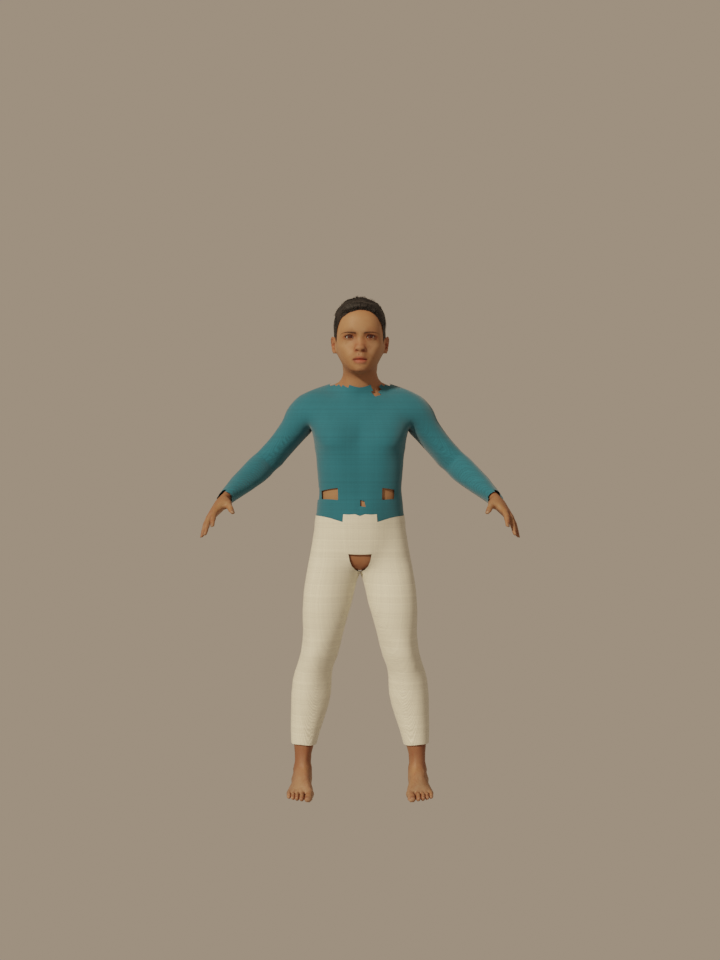
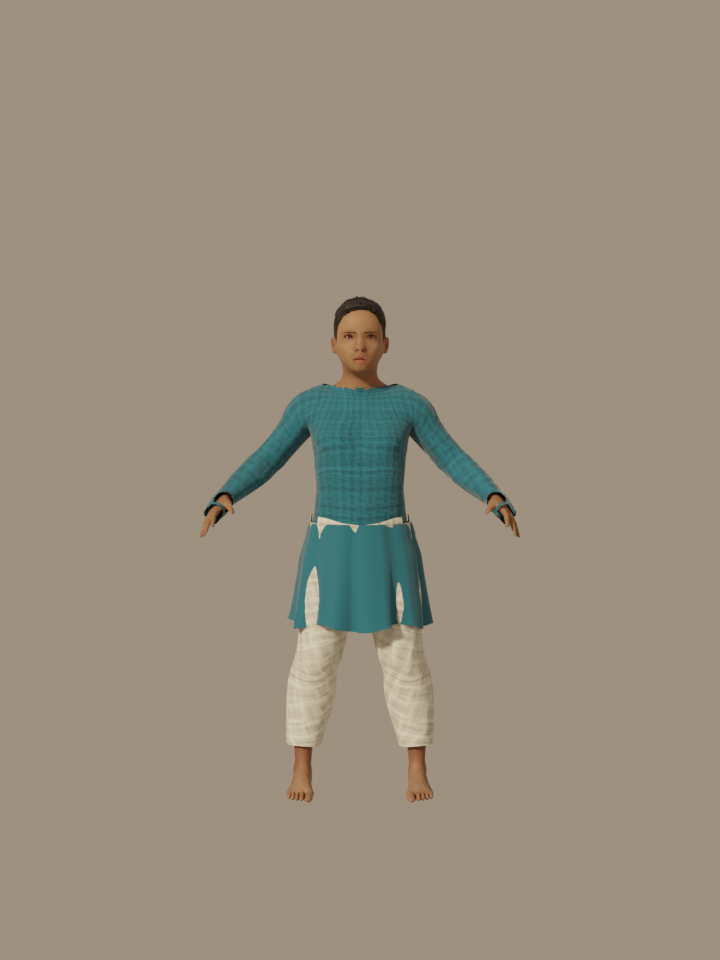
characters: restore cloth simulation (two-stage: inner layers, then kurta hem + gamchha over them), clean sleeve ends, hem clears dhoti/pyjama, gamchha on the trapezius; previews from run 43014791507

diff --git a/characters/blender/build_character.py b/characters/blender/build_character.py
@@ -90,7 +90,7 @@ def bone_head(name):
     return rig.matrix_world @ rig.data.bones["mixamorig:" + name].head_local
 
 
-L = {n: bone_head(n) for n in ["Hips", "Spine", "Spine2", "Neck", "Head", "LeftShoulder", "RightShoulder", "LeftArm", "RightArm", "LeftUpLeg", "LeftLeg", "LeftFoot"]}
+L = {n: bone_head(n) for n in ["Hips", "Spine", "Spine2", "Neck", "Head", "LeftShoulder", "RightShoulder", "LeftArm", "RightArm", "LeftUpLeg", "LeftLeg", "LeftFoot", "LeftHand", "RightHand"]}
 head_top_z = max((body.matrix_world @ v.co).z for v in body.data.vertices)
 log("landmarks z: hips %.3f neck %.3f head %.3f top %.3f foot %.3f" % (L["Hips"].z, L["Neck"].z, L["Head"].z, head_top_z, L["LeftFoot"].z))
 
@@ -326,7 +326,7 @@ def push_to_surface(p, offset, tree=None):
 # ───────────────────────── blouse / kurta: body copy ─────────────────────────
 
 
-def body_shell(name, groups, z_min, z_max, offset, mat, sleeve_z_min=None, exclude=False):
+def body_shell(name, groups, z_min, z_max, offset, mat, sleeve_z_min=None, exclude=False, trim=()):
     gidx = [group_names.index(g) for g in groups if g in group_names]
     if exclude:  # groups = parts to leave bare
         gidx = [i for i, g in enumerate(group_names) if any(k in g for k in groups)]
@@ -341,7 +341,8 @@ def body_shell(name, groups, z_min, z_max, offset, mat, sleeve_z_min=None, exclu
             w = sum(v[dl].get(g, 0.0) for g in gidx)
             zmin = sleeve_z_min if (sleeve_z_min is not None and abs(v.co.x) > 0.16) else z_min
             bad = (w >= 0.5) if exclude else (w < 0.5)
-            if bad or v.co.z < zmin or v.co.z > z_max:
+            near = any((v.co - c).length < r for c, r in trim)  # e.g. clean sleeve ends above the wrist
+            if bad or near or v.co.z < zmin or v.co.z > z_max:
                 ok = False
                 break
         if not ok:
@@ -588,29 +589,110 @@ if kind == "saree":
 elif kind in ("dhoti_kurta", "kurta_pyjama"):
     kurta = cloth_mat("kurta", C["main"])
     # kurta: loose body shell (torso + full sleeves, hands/head/legs bare) …
-    garments.append(body_shell("kurta", ["Hand", "Head", "Neck", "UpLeg", "Leg", "Foot", "Toe"], hips_z - 0.04, neck_z - 0.015, 0.012, kurta, exclude=True))
+    garments.append(body_shell("kurta", ["Hand", "Head", "Neck", "UpLeg", "Leg", "Foot", "Toe"], hips_z - 0.04, neck_z - 0.015, 0.012, kurta, exclude=True,
+                                trim=[(L["LeftHand"], 0.05), (L["RightHand"], 0.05)]))
     # … plus a free-hanging hem panel from the hips to above the knee (cloth-simulated)
     knee_z = L["LeftLeg"].z
-    garments.append(wrap_skirt("kurta_hem", hips_z + 0.02, knee_z + 0.08, kurta, kurta, pleats=False, flare=0.03, ease=0.02))
+    # sits clearly outside the dhoti/pyjama (their pleats/folds used to poke through)
+    hem_ease = 0.065 if kind == "dhoti_kurta" else 0.045
+    garments.append(wrap_skirt("kurta_hem", hips_z + 0.02, knee_z + 0.08, kurta, kurta, pleats=False, flare=0.03, ease=hem_ease))
     if kind == "dhoti_kurta":
         dhoti = cloth_mat("dhoti", C.get("dhoti", (0.95, 0.93, 0.86)))
         garments.append(wrap_skirt("dhoti", hips_z - 0.02, foot_z + 0.16, dhoti, border, pleats=True, flare=0.02, ease=0.03))
         if C.get("gamchha"):
             g = cloth_mat("gamchha", C["gamchha"], rough=0.8, stripe=(0.95, 0.93, 0.86))
-            ls = shoulder_l
-            # gamchha over the left shoulder, hanging front and back (cloth-simulated)
+            # gamchha over the left shoulder (on the trapezius, not out on the arm),
+            # hanging front and back; the cloth sim lets it fall and fold
+            gx = shoulder_l.x - math.copysign(0.035, shoulder_l.x)
             garments.append(ribbon("gamchha", [
-                (ls.x + 0.02, front_y - 0.02, L["Spine"].z + 0.02),
-                (ls.x + 0.04, front_y + 0.02, L["Spine2"].z),
-                (ls.x + 0.05, L["Neck"].y, neck_z - 0.02),
-                (ls.x + 0.04, L["Neck"].y + 0.12, L["Spine2"].z),
-                (ls.x + 0.02, L["Neck"].y + 0.14, L["Spine"].z + 0.02),
-            ], 0.15, 0.03, g, g, samples=40, across=5))
+                (gx, front_y - 0.03, L["Spine"].z),
+                (gx, front_y - 0.01, L["Spine2"].z),
+                (gx, L["Neck"].y - 0.02, neck_z - 0.01),
+                (gx, L["Neck"].y + 0.10, L["Spine2"].z),
+                (gx, L["Neck"].y + 0.12, L["Spine"].z),
+            ], 0.15, 0.022, g, g, samples=48, across=6))
     else:
         py = cloth_mat("pyjama", C.get("pyjama", (0.94, 0.92, 0.85)))
         garments.append(body_shell("pyjama", ["Hand", "Arm", "Spine1", "Spine2", "Neck", "Head", "Foot", "Toe"], foot_z + 0.07, hips_z + 0.04, 0.02, py, exclude=True))
 
 log("garments", [(g.name, len(g.data.polygons)) for g in garments])
+
+
+# ───────────────────────── cloth simulation (real drape) ─────────────────────────
+def simulate(objs_pins, colliders=(), frames=40):
+    """objs_pins: [(object, pin_test(world_co) -> bool)]. Simulates in the rest pose against
+    the body plus any garments in `colliders` (so outer layers drape over inner ones)."""
+    cols = []
+    for c_ob, th in [(body, 0.006)] + [(c, 0.004) for c in colliders]:
+        m = c_ob.modifiers.new("collide", "COLLISION")
+        c_ob.collision.thickness_outer = th
+        c_ob.collision.cloth_friction = 8
+        cols.append((c_ob, m))
+    for ob, pin_test in objs_pins:
+        g = ob.vertex_groups.new(name="pin")
+        g.add([v.index for v in ob.data.vertices if pin_test(ob.matrix_world @ v.co)], 1.0, "REPLACE")
+        m = ob.modifiers.new("cloth", "CLOTH")
+        c = m.settings
+        c.quality = 6
+        c.mass = 0.18           # cotton
+        c.tension_stiffness = 12
+        c.compression_stiffness = 12
+        c.shear_stiffness = 6
+        c.bending_stiffness = 0.6
+        c.air_damping = 1.5
+        c.vertex_group_mass = "pin"
+        m.collision_settings.use_collision = True
+        m.collision_settings.distance_min = 0.005
+        m.collision_settings.use_self_collision = False
+        m.point_cache.frame_start, m.point_cache.frame_end = 1, frames
+    scn = bpy.context.scene
+    scn.frame_start, scn.frame_end = 1, frames
+    for f in range(1, frames + 1):
+        scn.frame_set(f)
+    dg = bpy.context.evaluated_depsgraph_get()
+    for ob, _ in objs_pins:
+        ev = ob.evaluated_get(dg)
+        me = ev.to_mesh()
+        co = np.empty(len(me.vertices) * 3, dtype=np.float32)
+        me.vertices.foreach_get("co", co)
+        ev.to_mesh_clear()
+        ob.modifiers.remove(ob.modifiers["cloth"])
+        old = np.empty_like(co)
+        ob.data.vertices.foreach_get("co", old)
+        ob.data.vertices.foreach_set("co", co)
+        ob.data.update()
+        ob.vertex_groups.remove(ob.vertex_groups["pin"])
+        for g in list(ob.vertex_groups):  # re-skin from the draped positions
+            ob.vertex_groups.remove(g)
+        skin_from_body(ob, _remember=False, **SKIN_ARGS[ob.name])
+        log(f"draped {ob.name}: max move {np.abs(co - old).reshape(-1, 3).max():.3f} m")
+    for c_ob, m in cols:
+        c_ob.modifiers.remove(m)
+    scn.frame_set(1)
+
+
+by_name = {g.name: g for g in garments}
+inner = []  # stage 1: layers next to the body
+if "saree_skirt" in by_name:
+    inner.append((by_name["saree_skirt"], lambda co: co.z > hips_z + 0.02))
+if "dhoti" in by_name:
+    inner.append((by_name["dhoti"], lambda co: co.z > hips_z - 0.04))
+if "pallu_head" in by_name:
+    inner.append((by_name["pallu_head"], lambda co: co.z > L["Head"].z + 0.07))
+outer, outer_cols = [], [by_name[n] for n in ("dhoti", "pyjama", "kurta") if n in by_name]
+if "kurta_hem" in by_name:  # stage 2: over the dhoti / pyjama
+    outer.append((by_name["kurta_hem"], lambda co: co.z > hips_z - 0.01))
+if "gamchha" in by_name:  # pinned only where it rests on the shoulder
+    outer.append((by_name["gamchha"], lambda co: co.z > neck_z - 0.05))
+for stage, cols in ((inner, ()), (outer, outer_cols)):
+    if stage:
+        try:
+            simulate(stage, cols)
+        except Exception as e:  # keep the un-simulated garment rather than failing the build
+            log("cloth simulation failed:", repr(e))
+
+for g in garments:
+    cylindrical_uv(g)
 
 # ───────────────────────── fit the web budget ─────────────────────────
 BUDGET = S.get("tri_budget", 24000)
